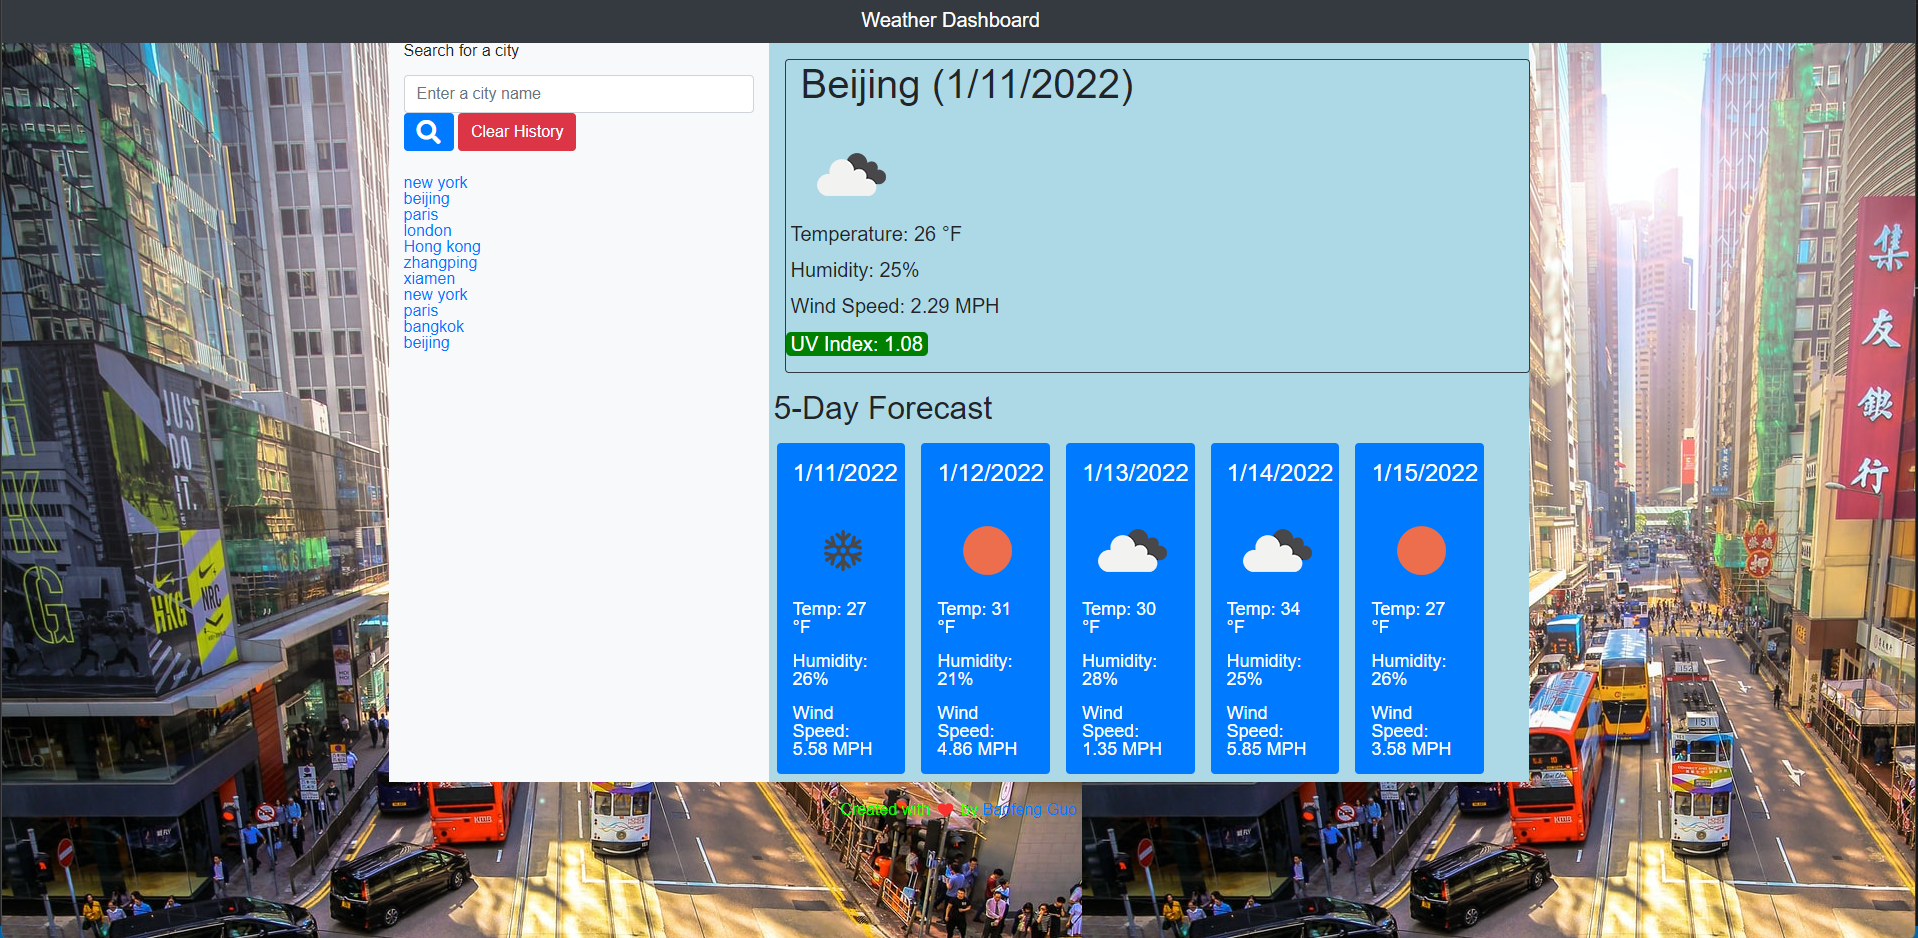
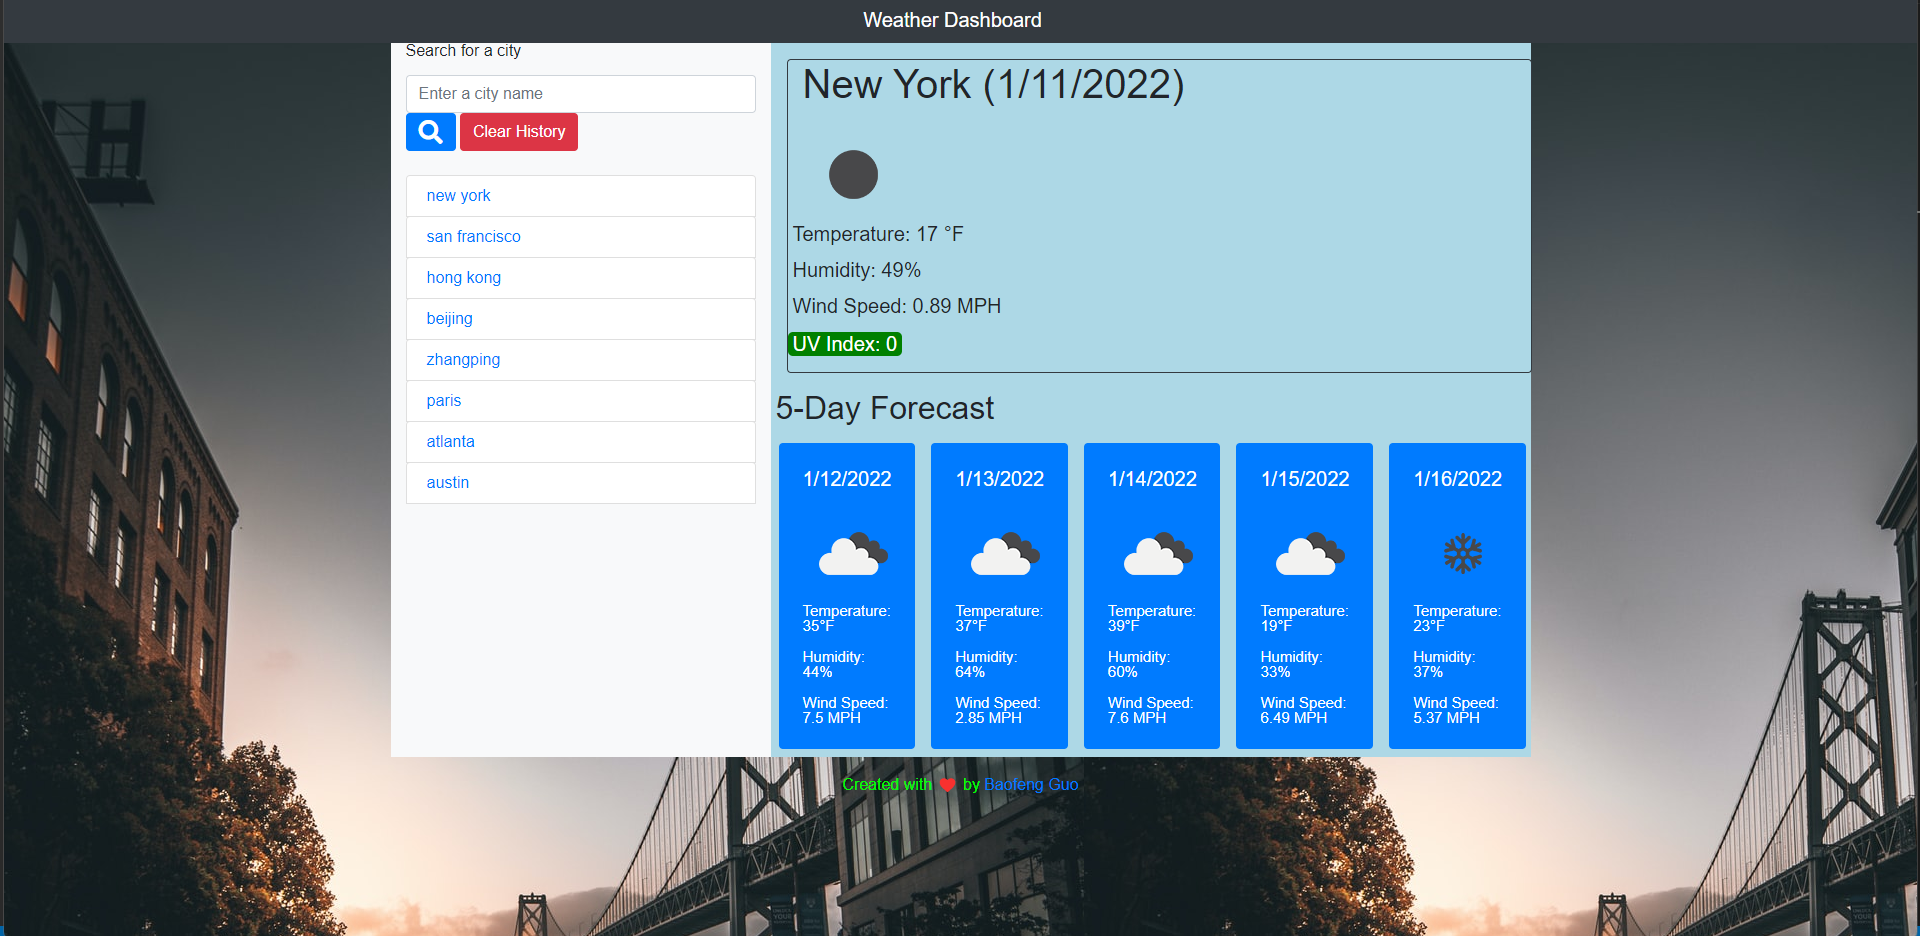
Updated some html codes in order to make the searched cities as a list group.

diff --git a/assets/script.js b/assets/script.js
@@ -30,7 +30,7 @@ $(".searchBtn").on("click", function(event) {
 //Clear button event listener to clear the search history
 $(".clearBtn").on("click", function(event) {
     event.preventDefault();
-    localStorage.clear("search");
+    localStorage.removeItem("search");
     window.location.reload();
   })
 
@@ -131,8 +131,8 @@ function renderSearchHistory() {
     console.log(searchHistory);
     if(searchHistory.length != 0){
         for (let i=0; i<searchHistory.length; i++) {
-            const searchedCity = $("<form>");
-            searchedCity.append("<a href='#' class='history-item center'>"+searchHistory[i]);
+            const searchedCity = $("<div>");
+            searchedCity.append("<a href='#' class='list-group-item'>"+searchHistory[i]);
             searchedCity.append("<input type='hidden' id='storedData'></a>");
             let storedData = $('#storedData');
             searchedCity.on("click", function() {

diff --git a/index.html b/index.html
@@ -26,7 +26,7 @@
                     </button>
                     <button class="btn clearBtn btn-danger mb-2" type="button" id="clear-button">Clear History</button>
                 </div> 
-                <form id="searchedCities" class="history"></form>
+                <div id="searchedCities" class="history list-group"></div>
             </div>
             <!--Right column elements-->
             <div class="col-8">
